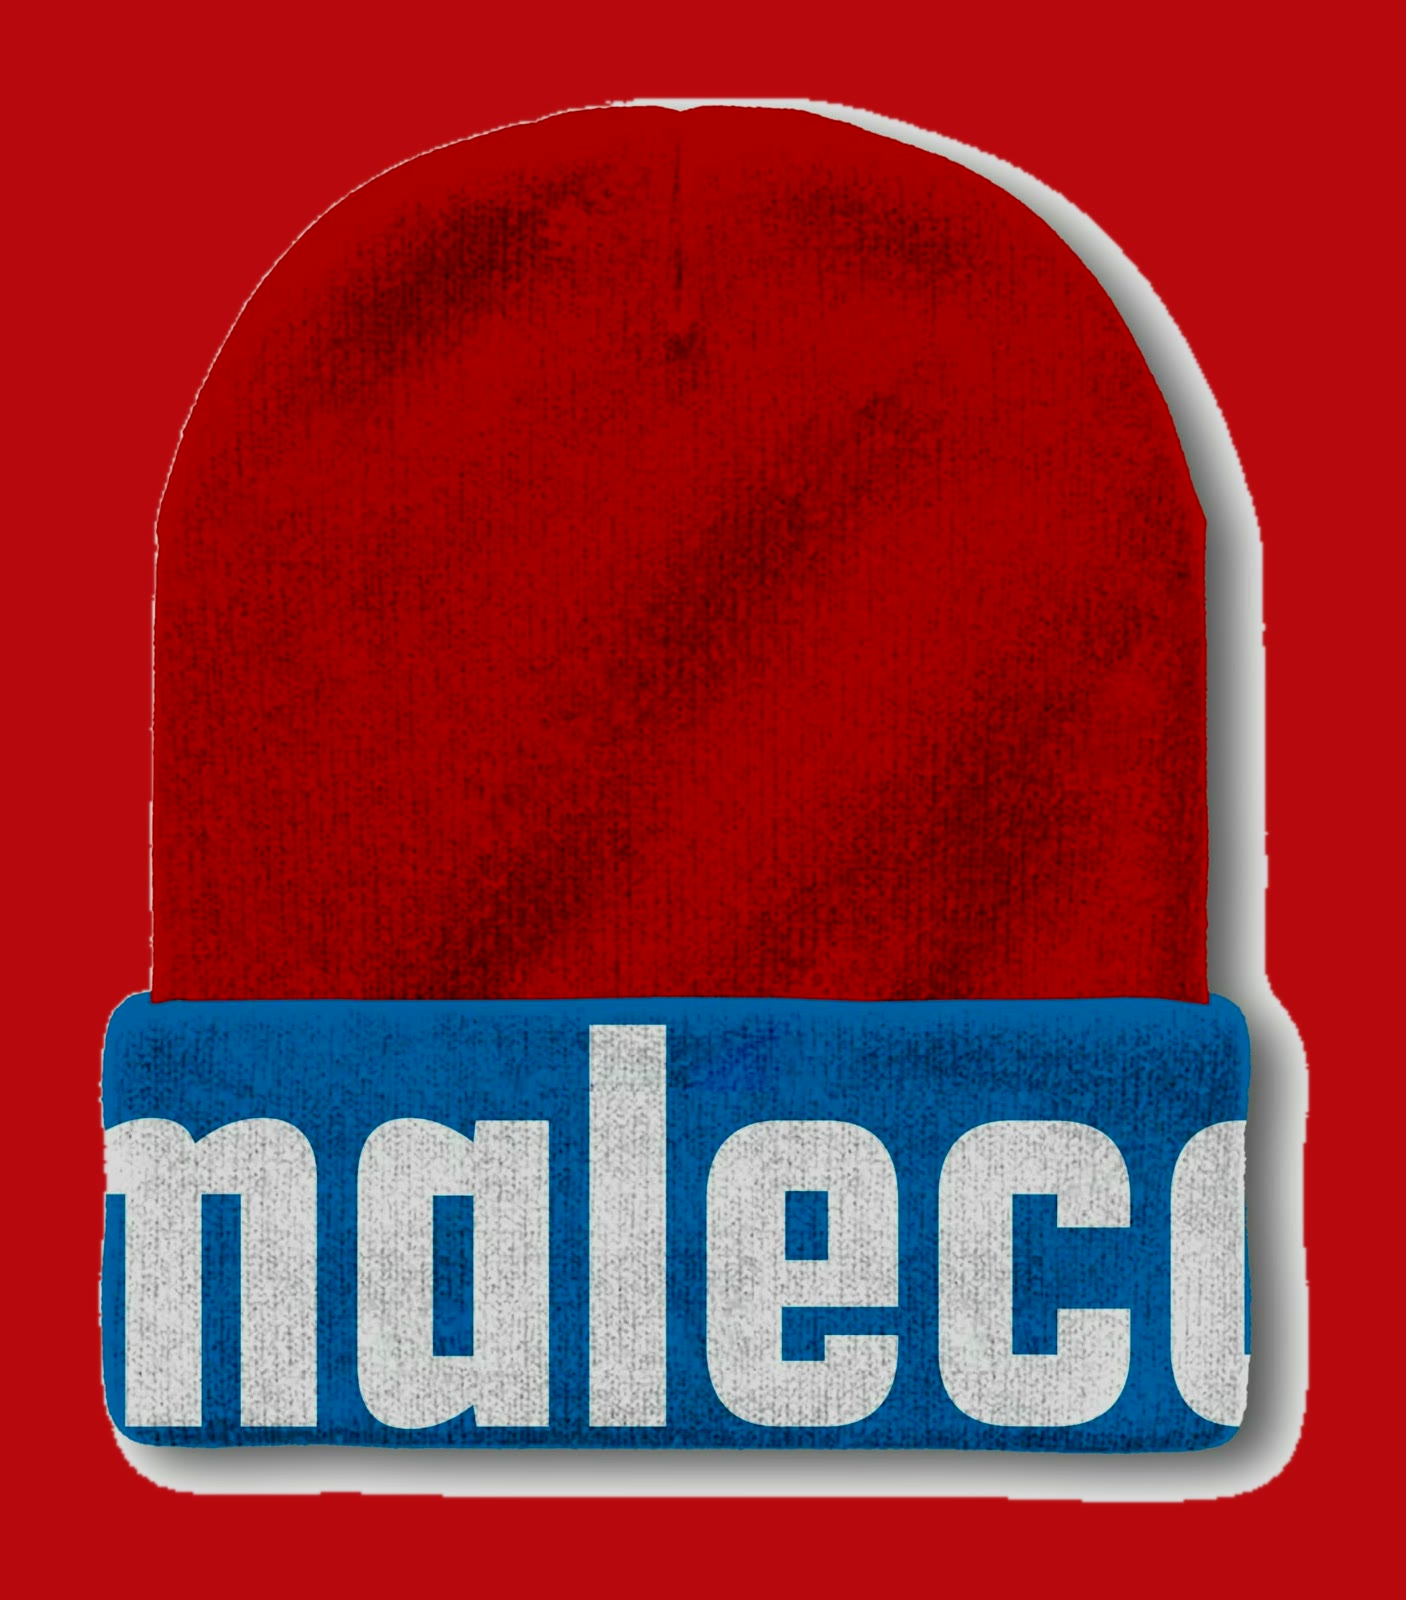
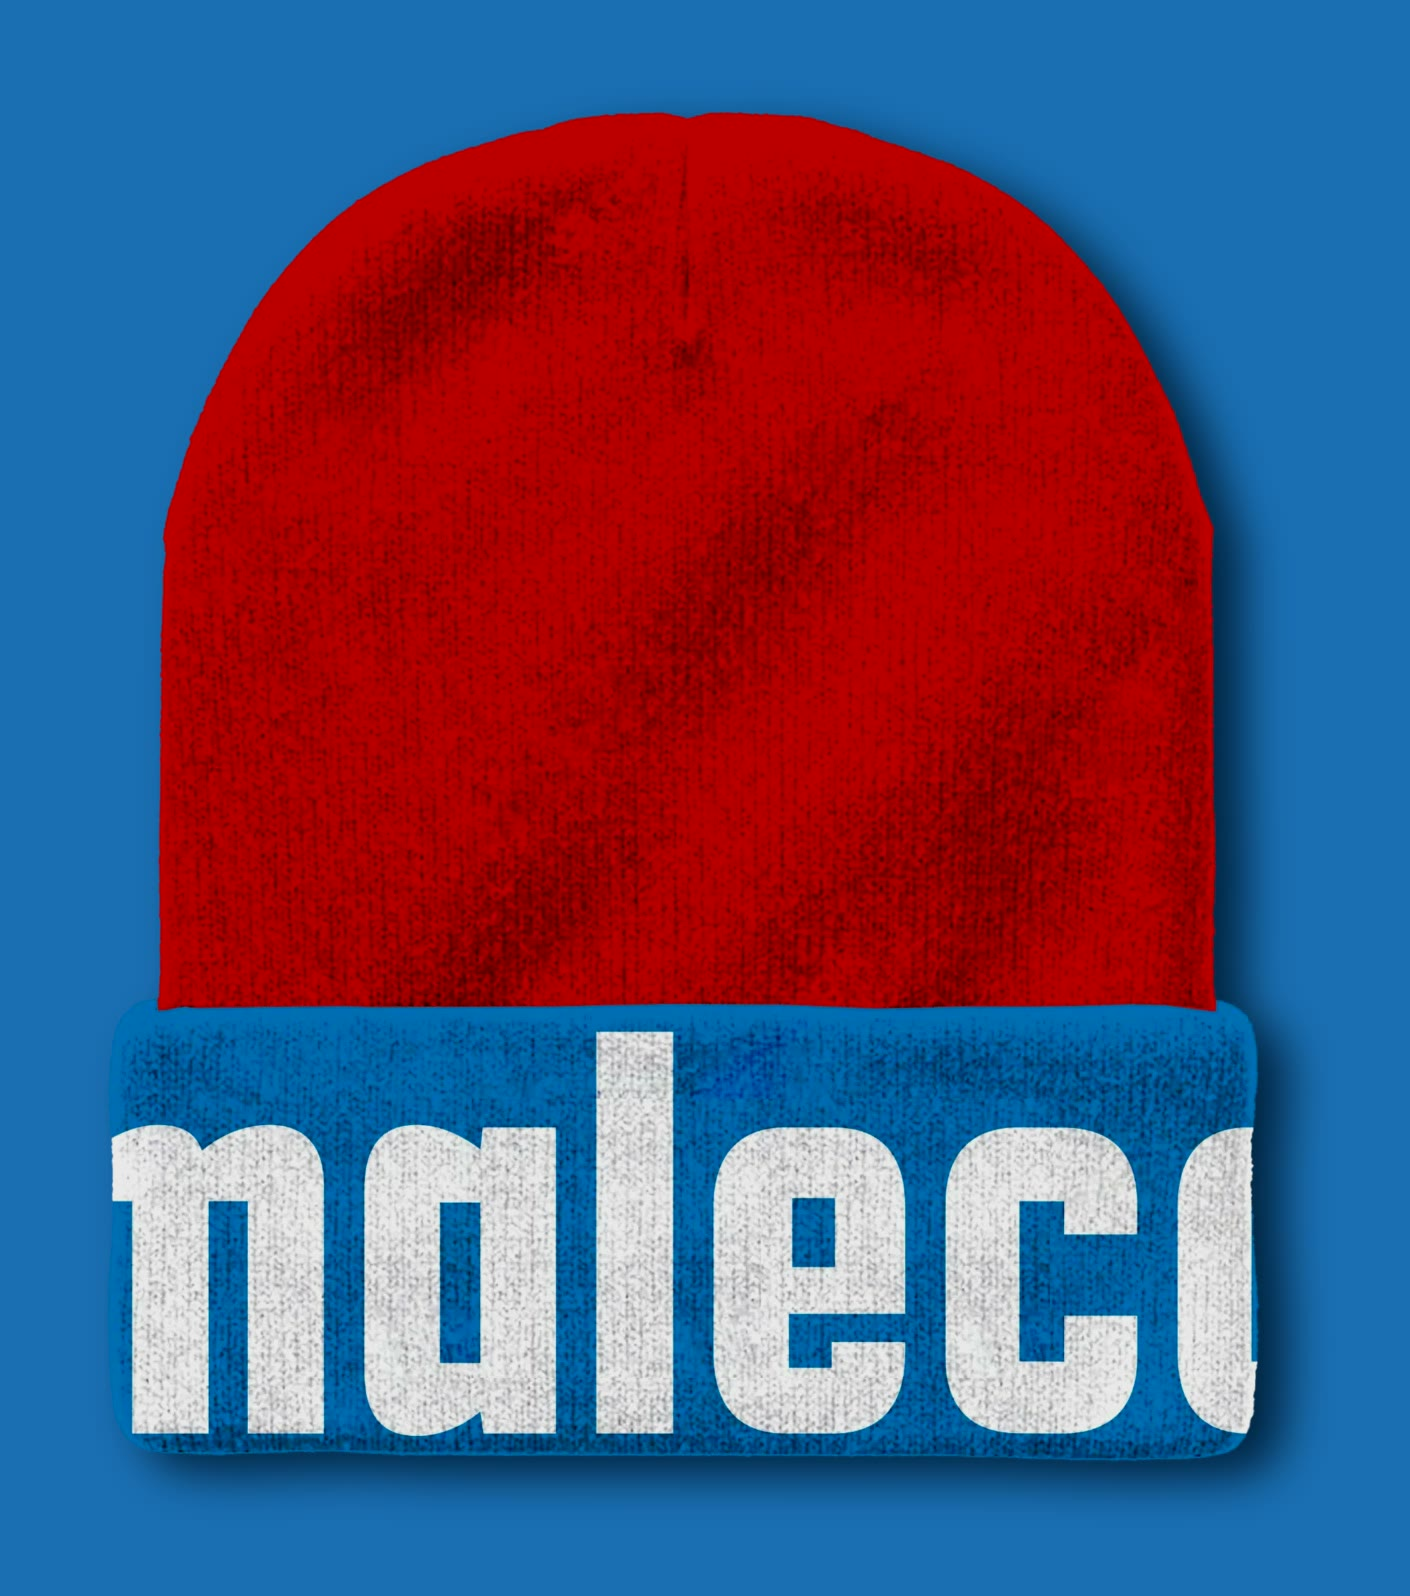
Maleco: cut-outs rebuilt from the alpha sources (Zollstock, Podcast-Laptop, Fahne, Mütze) on blue and rose, quote module on light blue; brand-guide pages of medium, Wackelzahn and Street Gourmet back to their originals

diff --git a/case-wackelzahn.html b/case-wackelzahn.html
@@ -221,8 +221,8 @@
       <img style="--ar:1.333" loading="lazy" src="assets/cases/wackelzahn/mockup.jpg" alt="Wackelzahn Mockup">
       <img style="--ar:0.665" loading="lazy" src="assets/cases/wackelzahn/junge-ballon.jpg" alt="Wackelzahn Praxis, Junge mit Ballon vor der Türfolierung">
       <img style="--ar:1.333" loading="lazy" src="assets/cases/wackelzahn/notebook.jpg" alt="Wackelzahn Website auf Notebook">
-      <img style="--ar:2.832" loading="lazy" src="assets/cases/wackelzahn/bg-014-c.jpg" alt="Wackelzahn Brand Guide, Farbwelt">
-      <img style="--ar:1.601" loading="lazy" src="assets/cases/wackelzahn/bg-015-c.jpg" alt="Wackelzahn Brand Guide, Illustration">
+      <img style="--ar:1.777" loading="lazy" src="assets/cases/wackelzahn/bg-014.jpg" alt="Wackelzahn Brand Guide, Farbwelt">
+      <img style="--ar:1.777" loading="lazy" src="assets/cases/wackelzahn/bg-015.jpg" alt="Wackelzahn Brand Guide, Illustration">
       <img style="--ar:1.502" loading="lazy" src="assets/cases/wackelzahn/praxis-orange.jpg" alt="Wackelzahn Wartebereich in Orange">
       <img style="--ar:1.502" loading="lazy" src="assets/cases/wackelzahn/wandbild-monster.jpg" alt="Wackelzahn Wandbild mit Monstern">
       <img style="--ar:1.333" loading="lazy" src="assets/cases/wackelzahn/mockup-1.jpg" alt="Wackelzahn Anwendung">
@@ -240,14 +240,14 @@
       <img style="--ar:1.786" loading="lazy" src="assets/cases/wackelzahn/leaflet.jpg" alt="Wackelzahn A6-Leaflet">
       <img style="--ar:1.502" loading="lazy" src="assets/cases/wackelzahn/team-orange.jpg" alt="Wackelzahn Team">
       <img style="--ar:0.800" loading="lazy" src="assets/cases/wackelzahn/tablet.jpg" alt="Wackelzahn Anamnesebogen auf Tablet">
-      <img style="--ar:0.821" loading="lazy" src="assets/cases/wackelzahn/collage-c.jpg" alt="Wackelzahn Markenwelt">
+      <img style="--ar:0.800" loading="lazy" src="assets/cases/wackelzahn/collage.jpg" alt="Wackelzahn Markenwelt">
       <img style="--ar:1.777" loading="lazy" src="assets/cases/wackelzahn/visitenkarten.jpg" alt="Wackelzahn Visitenkarten">
       <img style="--ar:1.504" loading="lazy" src="assets/cases/wackelzahn/wandbild-orca.jpg" alt="Wackelzahn Wandbild mit Orca">
       <img style="--ar:1.333" loading="lazy" src="assets/cases/wackelzahn/sticker.jpg" alt="Wackelzahn Sticker-Pack">
-      <img style="--ar:3.138" loading="lazy" src="assets/cases/wackelzahn/bg-003-c.jpg" alt="Wackelzahn Brand Guide, Logo">
-      <img style="--ar:5.312" loading="lazy" src="assets/cases/wackelzahn/bg-008-c.jpg" alt="Wackelzahn Brand Guide, Typografie">
-      <img style="--ar:3.386" loading="lazy" src="assets/cases/wackelzahn/bg-009-c.jpg" alt="Wackelzahn Brand Guide, Farben">
-      <img style="--ar:2.223" loading="lazy" src="assets/cases/wackelzahn/bg-010-c.jpg" alt="Wackelzahn Brand Guide, Bildwelt">
+      <img style="--ar:1.777" loading="lazy" src="assets/cases/wackelzahn/bg-003.jpg" alt="Wackelzahn Brand Guide, Logo">
+      <img style="--ar:1.777" loading="lazy" src="assets/cases/wackelzahn/bg-008.jpg" alt="Wackelzahn Brand Guide, Typografie">
+      <img style="--ar:1.777" loading="lazy" src="assets/cases/wackelzahn/bg-009.jpg" alt="Wackelzahn Brand Guide, Farben">
+      <img style="--ar:1.777" loading="lazy" src="assets/cases/wackelzahn/bg-010.jpg" alt="Wackelzahn Brand Guide, Bildwelt">
       <img style="--ar:1.000" loading="lazy" src="assets/cases/wackelzahn/zahnpasta.jpg" alt="Wackelzahn Zahnpasta">
       <img style="--ar:1.502" loading="lazy" src="assets/cases/wackelzahn/kids.jpg" alt="Wackelzahn, Kinder in der Praxis">
       <i class="fill" aria-hidden="true"></i>

diff --git a/case-medium.html b/case-medium.html
@@ -215,11 +215,11 @@
     <figure class="case-gallery__lead"><img class="case-wide" src="assets/cases/medium/buero-weit.jpg" alt="medium Architekten, das Büro"></figure>
     <div class="case-mosaic rv" data-mosaic>
       <img style="--ar:1.500" loading="lazy" src="assets/cases/medium/moodboard.jpg" alt="medium Architekten, Website auf dem Smartphone">
-      <img style="--ar:1.926" loading="lazy" src="assets/cases/medium/styleguide-1-c.jpg" alt="medium Styleguide">
+      <img style="--ar:1.778" loading="lazy" src="assets/cases/medium/styleguide-1.jpg" alt="medium Styleguide">
       <video style="--ar:1.778" src="assets/cases/medium/logo-animation.mp4" data-fallback="assets/cases/medium/logo-animation-poster.jpg" autoplay muted loop playsinline preload="metadata" poster="assets/cases/medium/logo-animation-poster.jpg"></video>
-      <img style="--ar:1.912" loading="lazy" src="assets/cases/medium/styleguide-2-c.jpg" alt="medium Styleguide, Logo">
-      <img style="--ar:1.570" loading="lazy" src="assets/cases/medium/styleguide-3-c.jpg" alt="medium Styleguide, Typografie">
-      <img style="--ar:2.172" loading="lazy" src="assets/cases/medium/styleguide-4-c.jpg" alt="medium Styleguide, Anwendung">
+      <img style="--ar:1.777" loading="lazy" src="assets/cases/medium/styleguide-2.jpg" alt="medium Styleguide, Logo">
+      <img style="--ar:1.778" loading="lazy" src="assets/cases/medium/styleguide-3.jpg" alt="medium Styleguide, Typografie">
+      <img style="--ar:1.777" loading="lazy" src="assets/cases/medium/styleguide-4.jpg" alt="medium Styleguide, Anwendung">
       <img style="--ar:1.429" loading="lazy" src="assets/cases/medium/motiv.jpg" alt="medium Architekten, Bildwelt">
       <img style="--ar:1.333" loading="lazy" src="assets/cases/medium/businesscard.jpg" alt="medium Geschäftsausstattung">
       <img style="--ar:1.333" loading="lazy" src="assets/cases/medium/businesscard-2.jpg" alt="medium Visitenkarten">
@@ -231,7 +231,7 @@
       <img style="--ar:1.333" loading="lazy" src="assets/cases/medium/web.jpg" alt="medium Website">
       <video style="--ar:1.778" src="assets/cases/medium/website-scroll.mp4" data-fallback="assets/cases/medium/website-scroll-poster.jpg" autoplay muted loop playsinline preload="metadata" poster="assets/cases/medium/website-scroll-poster.jpg"></video>
       <img style="--ar:1.333" loading="lazy" src="assets/cases/medium/web-2.jpg" alt="medium Website, Projekte">
-      <img style="--ar:1.347" loading="lazy" src="assets/cases/medium/grid-5-c.jpg" alt="medium Gestaltungsraster">
+      <img style="--ar:1.415" loading="lazy" src="assets/cases/medium/grid-5.jpg" alt="medium Gestaltungsraster">
       <video style="--ar:1.778" src="assets/cases/medium/grid-animation.mp4" data-fallback="assets/cases/medium/grid-animation-poster.jpg" autoplay muted loop playsinline preload="metadata" poster="assets/cases/medium/grid-animation-poster.jpg"></video>
       <img style="--ar:1.415" loading="lazy" src="assets/cases/medium/grid-9.jpg" alt="medium Rastersystem">
       <img style="--ar:1.503" loading="lazy" src="assets/cases/medium/buero-1.jpg" alt="medium Büro">

diff --git a/case-street-gourmet.html b/case-street-gourmet.html
@@ -232,7 +232,7 @@
     <div class="case-mosaic rv" data-mosaic>
       <img style="--ar:0.777" loading="lazy" src="assets/cases/street-gourmet/menuboard.jpg" alt="Street Gourmet, Menüboard im Truck">
       <img style="--ar:1.332" loading="lazy" src="assets/cases/street-gourmet/crew-ausgabe.jpg" alt="Street Gourmet, Crew an der Ausgabe">
-      <img style="--ar:1.624" loading="lazy" src="assets/cases/street-gourmet/typografie-c.jpg" alt="Street Gourmet, Typografie-Detail des Schriftzugs">
+      <img style="--ar:1.778" loading="lazy" src="assets/cases/street-gourmet/typografie.jpg" alt="Street Gourmet, Typografie-Detail des Schriftzugs">
       <img style="--ar:1.332" loading="lazy" src="assets/cases/street-gourmet/burger-zubereitung.jpg" alt="Street Gourmet, Burger-Zubereitung im Truck">
       <img style="--ar:1.333" loading="lazy" src="assets/cases/street-gourmet/website-laptop.jpg" alt="Street Gourmet, Website auf dem Laptop">
       <img style="--ar:0.777" loading="lazy" src="assets/cases/street-gourmet/crew-shirt.jpg" alt="Street Gourmet, Crew-Shirt mit Logo">

diff --git a/case-maleco.html b/case-maleco.html
@@ -237,7 +237,7 @@
     </div>
   </section>
 
-  <section class="case-quote" style="--case-color:#d20b11;--case-ink:#171513" data-screen-label="Zitat">
+  <section class="case-quote" style="--case-color:#a8d4f2;--case-ink:#171513" data-screen-label="Zitat">
     <div class="qtex plx" data-plx="-6" aria-hidden="true"></div>
     <div class="container">
       <img class="rv-media plx qimg" data-plx="-10" src="assets/cases/maleco/florian-leonhart.jpg" alt="Florian Leonhart, Maleco">
